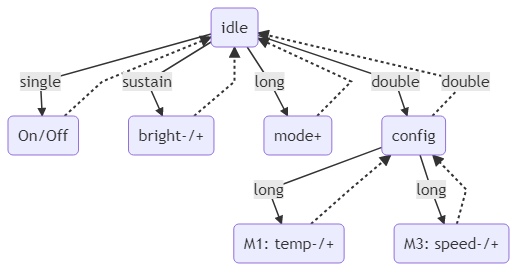
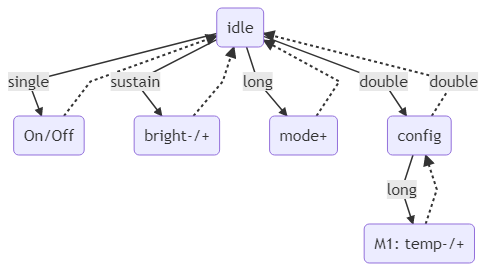
Candle animation

diff --git a/README.md b/README.md
@@ -23,15 +23,17 @@ A circular lamp using Cold White/Warm White/Amber LED strip.
 ### Hardware
 
 - 2x M4 screws
+- 2x M3 screws
+- 4x M2 screws
 - 1 meter T2016 LED Strip tube (cut the white part with an utility knife)
 
 ## Assembly
 
-Assembly is pretty straightforward. Glue the four arcs together as well as the support arcs in the support. Then glue and LED strip and place the diffuser (don't need glue if you cut it at the right size).
+Assembly is pretty straightforward. Stick the four arcs together as well as the support arcs in the support. Then glue the LED strip and place the diffuser (don't need glue if you cut it at the right size).
 
-Solder the LED strip input to D2 and the button output to A6 and the power lines as usual.
+Solder the LED strip input to D2 and the button output to A6 and the power lines as usual. Use the M3 and M2 screws to secure the Arduino and the Micro-USB port, and hot glue for the button.
 
-Insert the ring the support and secure it with the support lock and two screws. The drop shapped hole in the support is meant to hold the original LED connector.
+Insert the ring the support and secure it with the support lock and two M4 screws. The drop shapped hole in the support is meant to hold the original LED connector.
 
 ## Controls
 
@@ -43,17 +45,17 @@ Next mode
 
 - Mode 1 : static single temperature
 - Mode 2 : "rainbow" of temperatures
-- Mode 3 : rotating "rainbow" of temperatures
+- Mode 3 : candle animation
 
 **Long touch (> 1s)**  
 Increase/decrease brightness
 
-**Double touch**
+**Double touch**  
 Enter config mode. The ring will blink three times, double touch again to exit config, the ring will blink twice.
 
 - Mode 1 : long touch to change the temperature
 - Mode 2 : not configurable
-- Mode 3 : long touch to change to rotating speed
+- Mode 3 : not configurable
 
 ![controls](Images/controls.png)
 
@@ -68,7 +70,6 @@ graph TD
   D(mode+)
   E(config)
   F(M1: temp-/+)
-  G(M3: speed-/+)
   A -->|single| B
   B -.-> A
   A -->|sustain| C
@@ -79,8 +80,6 @@ graph TD
   E -.->|double| A
   E -->|long| F
   F -.-> E
-  E -->|long| G
-  G -.-> E
 ```
 
 </details>
